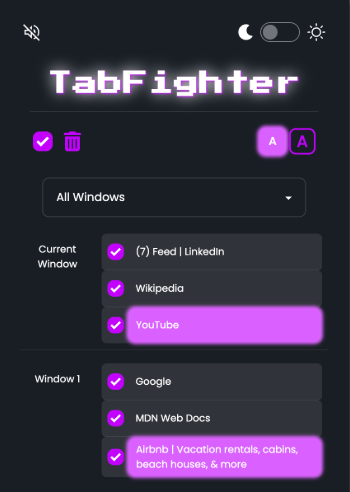
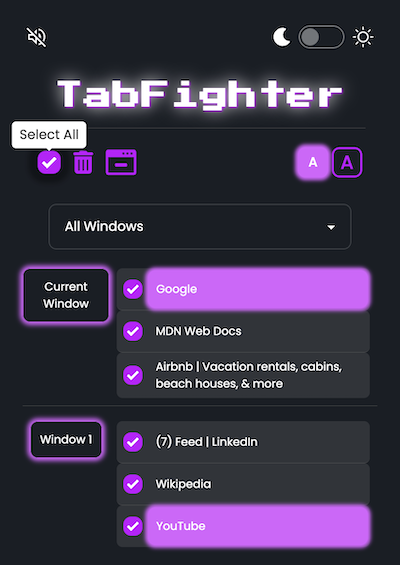
Update: version, readme, and screenshots

diff --git a/README.md b/README.md
@@ -26,6 +26,8 @@ __Be sure to turn your sound on and enjoy!__
 - Select individual or select all tabs to close
 - Click on the window name to select all the tabs in that window
 - If you're feeling spicy, close a tab at random by hitting the Chance button
+### Minimize Windows
+ - Minimize all windows quickly with the click of a button
 ### Muting
 - Easily view and mute / unmute any audible tabs
 ### Accessibility + more
@@ -45,6 +47,6 @@ __Be sure to turn your sound on and enjoy!__
 #### Select Window
 ![Select Window](./assets/SelectWindow.png)
 ### Mute Tab
-![Mute Tab](./assets/TabMute.png)
+![Mute Tab](./assets/MuteTab.png)
 ### Large Font
 ![Large Font](./assets/LargeFont.png)
